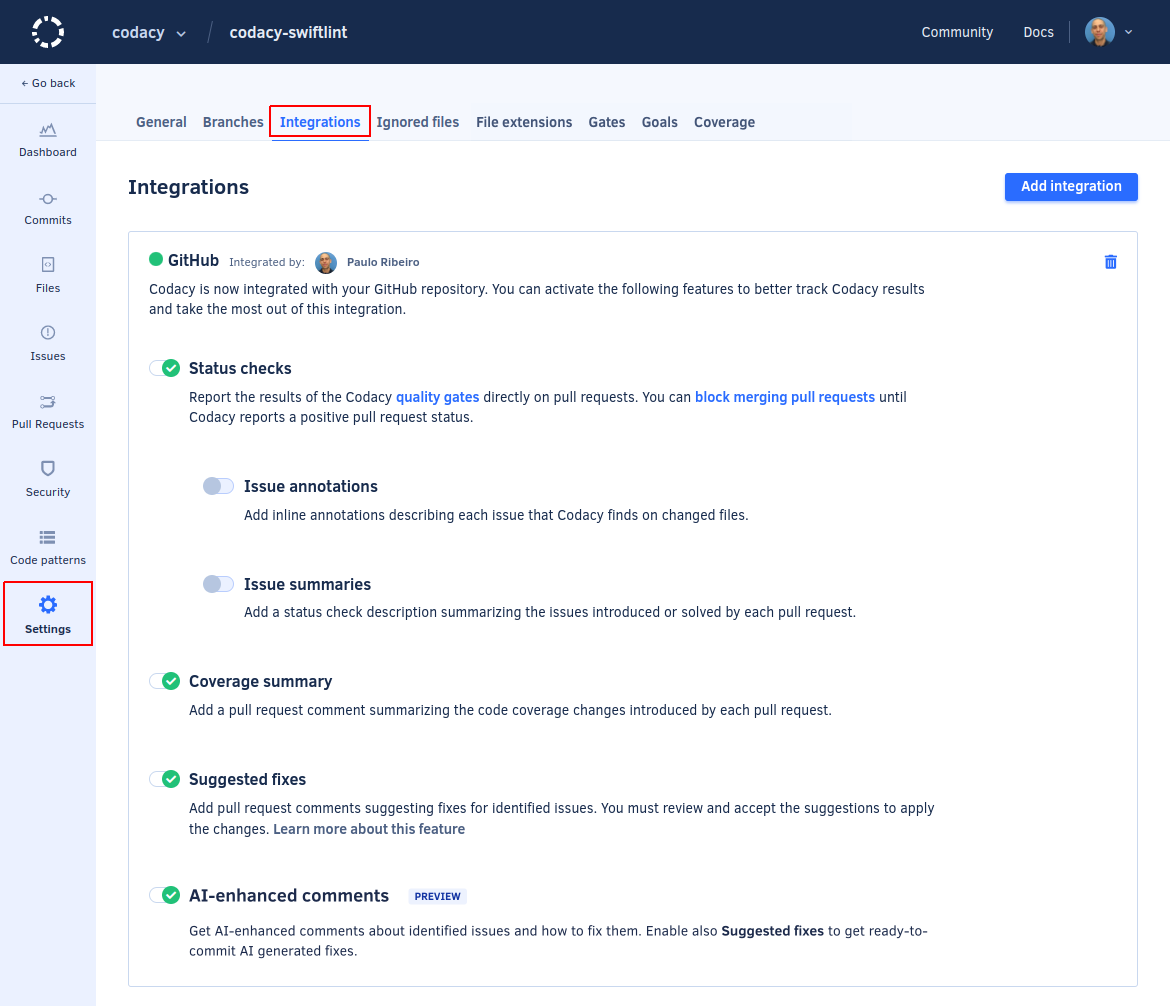
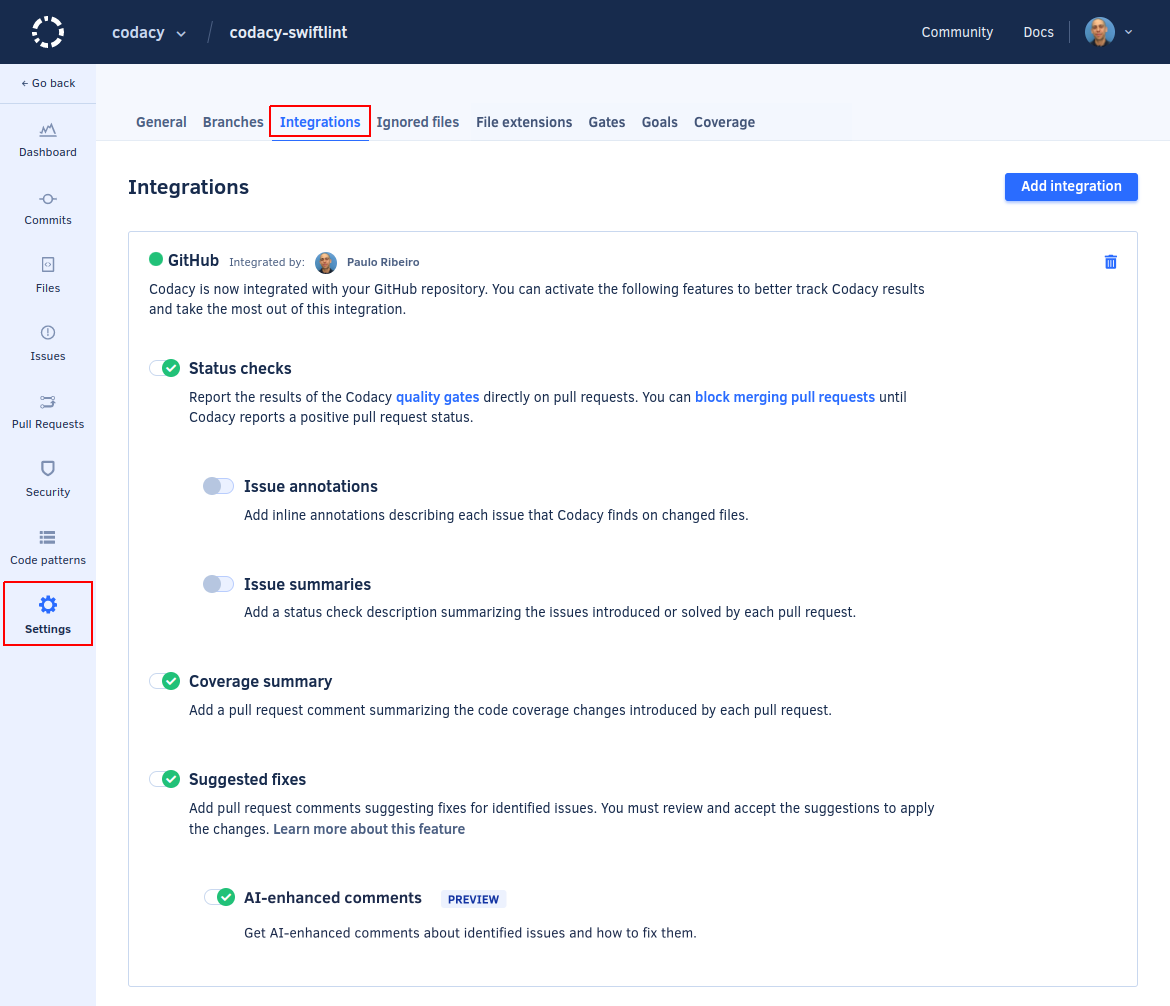
feat: Clarify AI toggle HRZ-310 (#1791)
* feat: Update copy

* feat: Placeholder screenshot

* feat: Update screenshot

Changed region(s): [[0.1231, 0.8628, 0.7385, 0.9553]]

diff --git a/docs/repositories-configure/integrations/github-integration.md b/docs/repositories-configure/integrations/github-integration.md
@@ -89,7 +89,7 @@ Adds comments on the lines of the pull request where Codacy finds new issues wit
 
 {% include-markdown "../../assets/includes/preview.md" %}
 
-Adds AI-enhanced comments with insights to help you fix identified issues. Enable also **Suggested fixes** to get ready-to-commit AI-generated fixes.
+Adds AI-enhanced comments with insights and ready-to-commit AI-generated fixes for identified issues. To enable this option, you must enable **Suggested fixes** first.
 
 {% include-markdown "../../assets/includes/ai-info.md" %}
 
